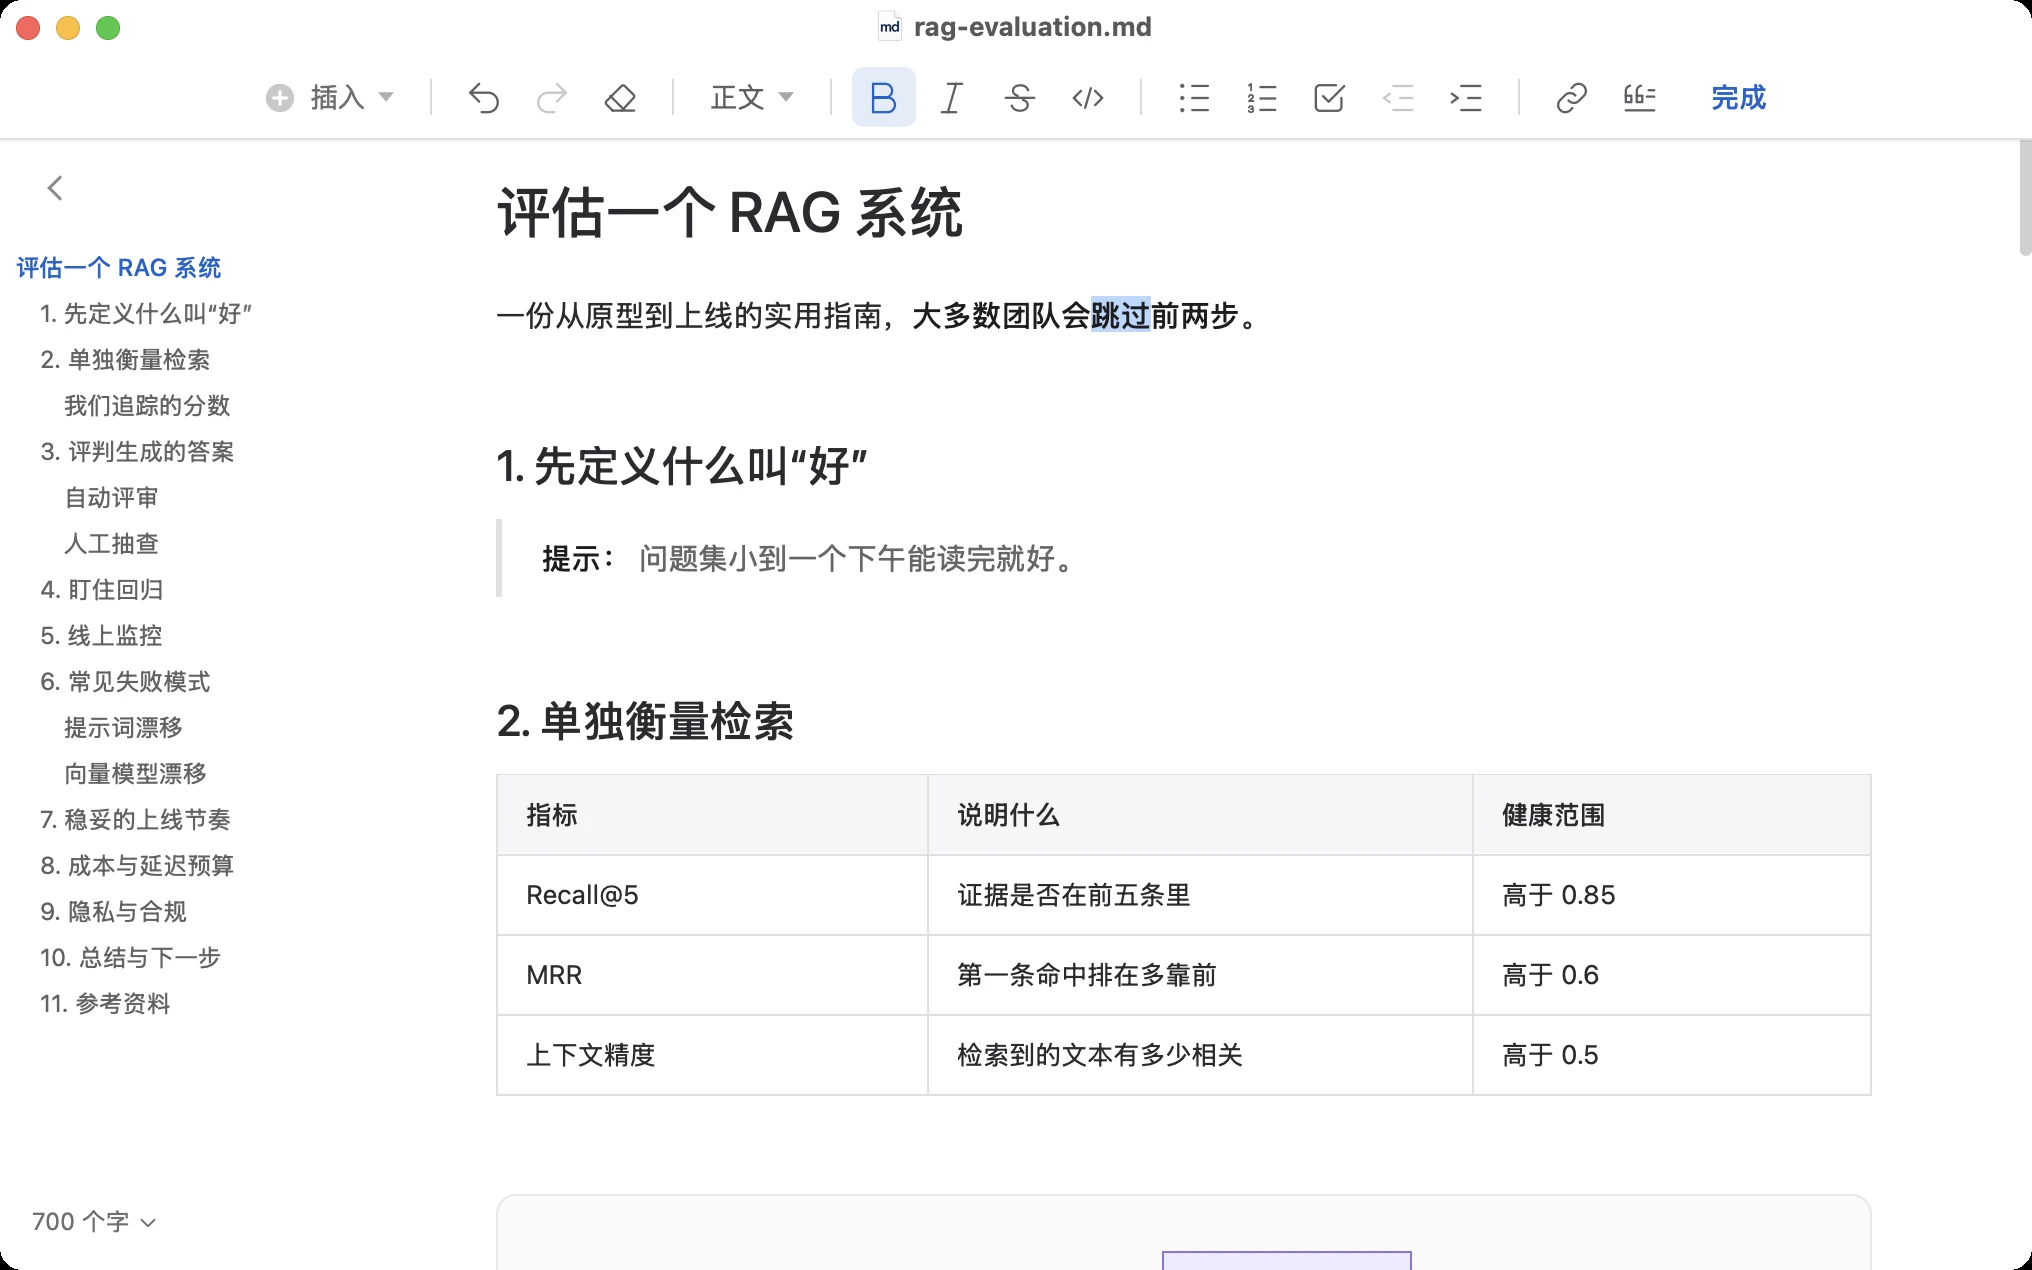
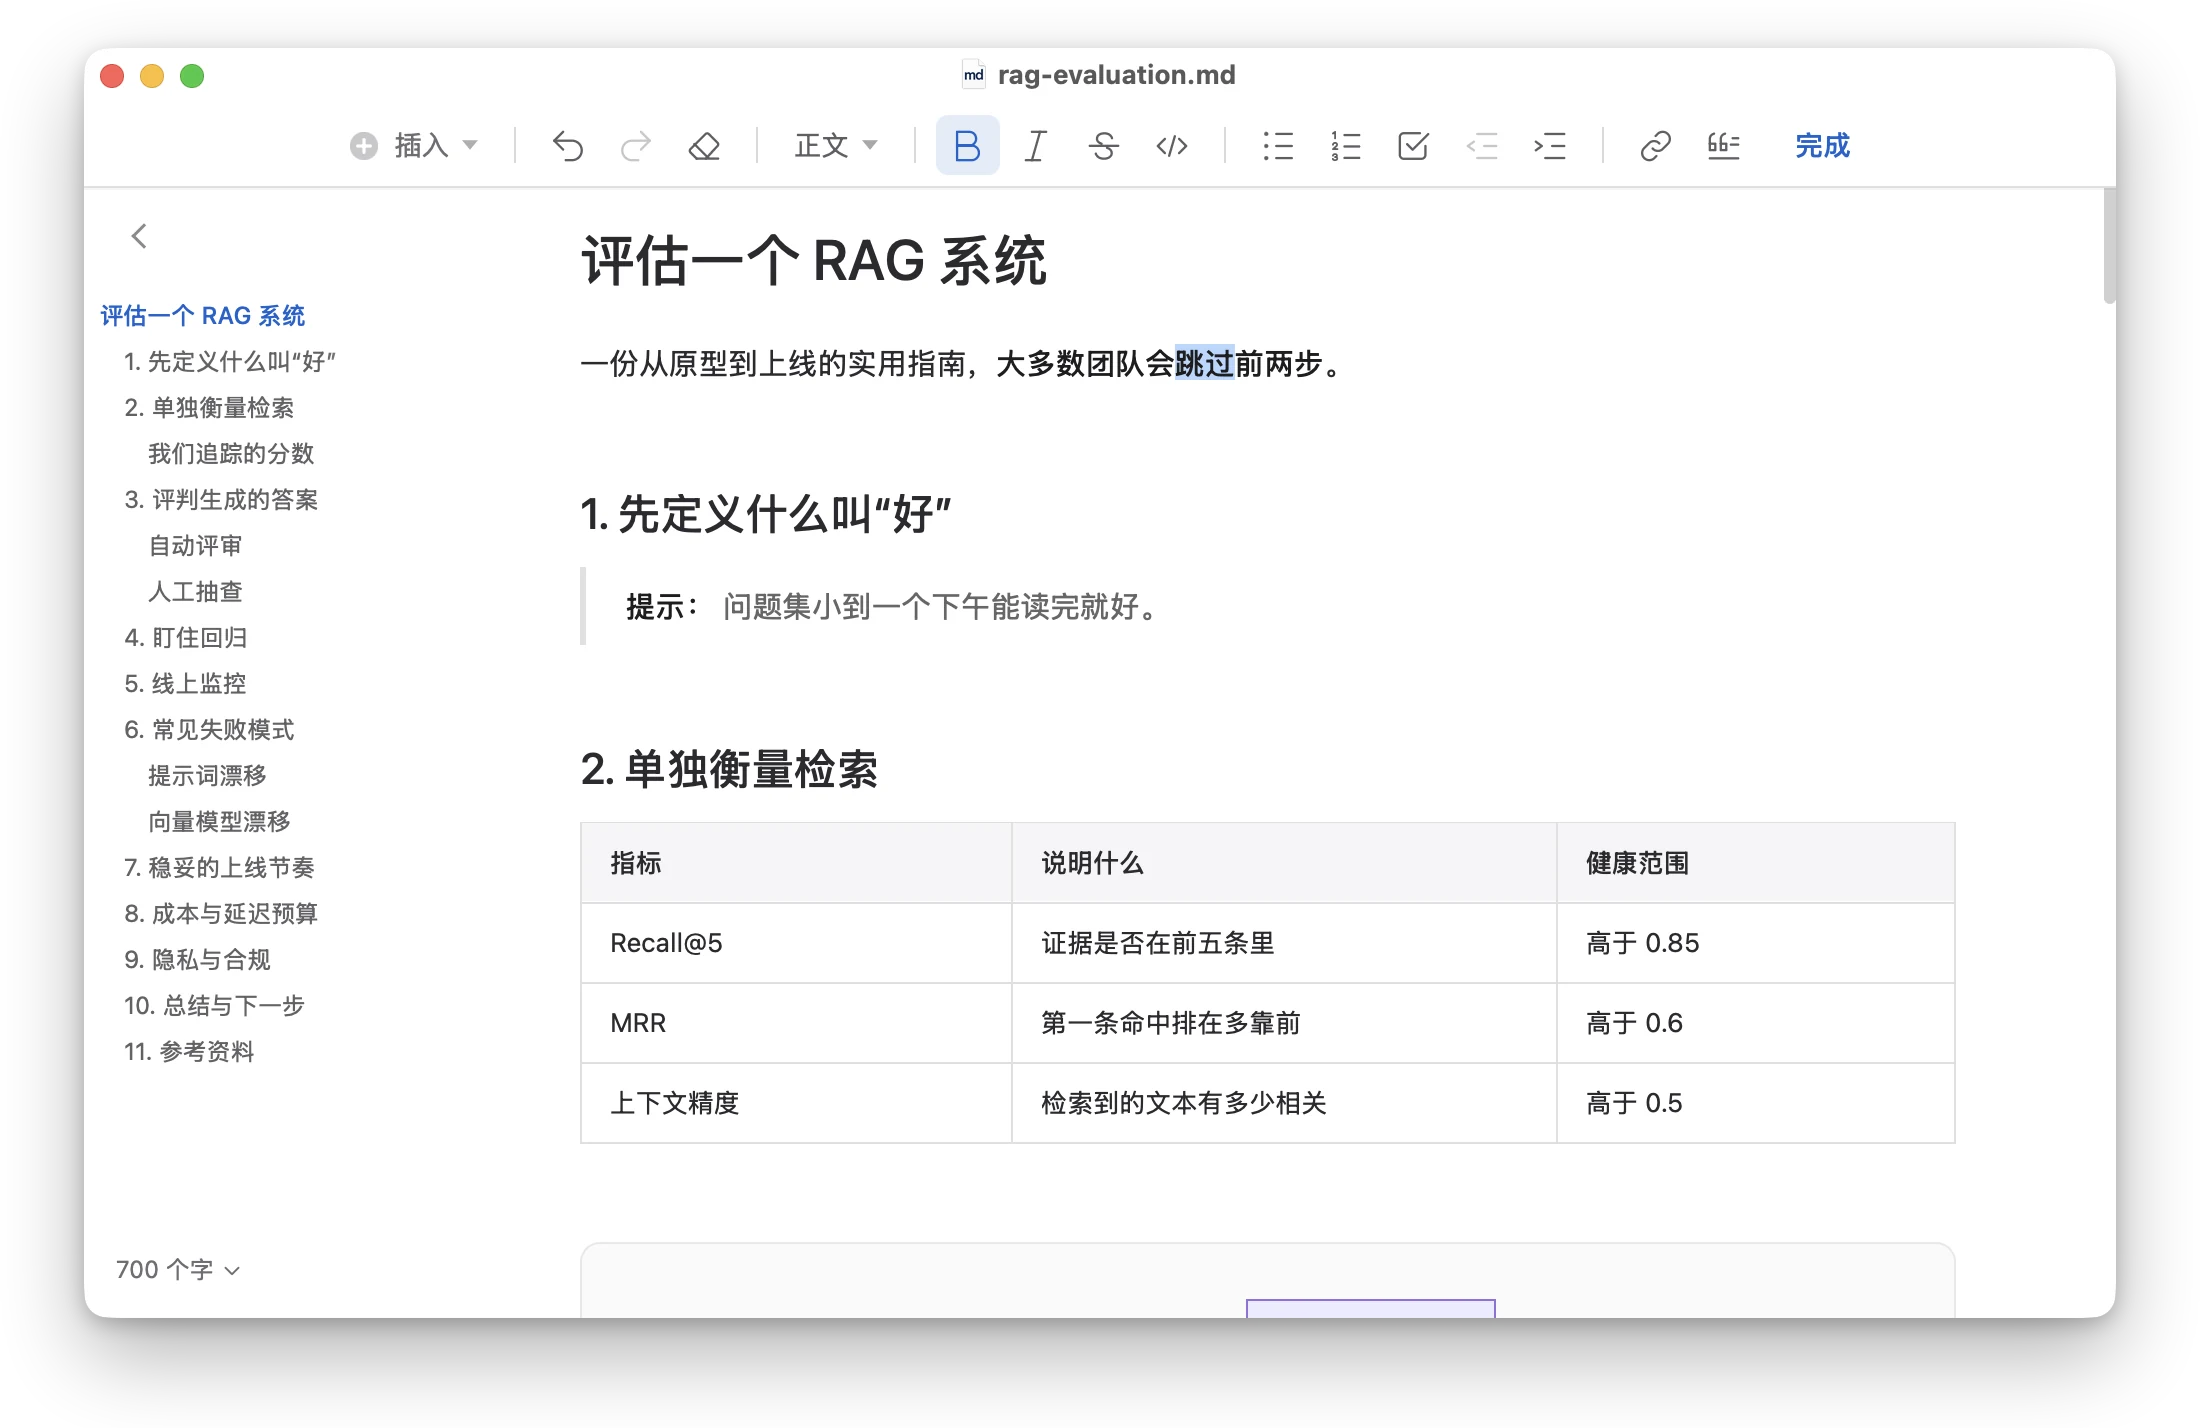
Soft window shadows on README shots; refresh the editor-vs-mdPreview figure (README and website) with the new sample
- README screenshots keep the window's transparent rounded corners and gain a soft drop shadow (no black corners).
- Website compare figure: mdPreview pane now shows the new long-outline document with a flowchart peeking in; the editor mock's source matches.
- readme-comparison images regenerated from the site; new site-compare-frames spec documents how the pane frames are made.

diff --git a/tests/e2e/site-compare-frames.spec.js b/tests/e2e/site-compare-frames.spec.js
@@ -1,0 +1,241 @@
+// 官网“通用编辑器 vs mdPreview”对比图右侧的 mdPreview 窗口素材（新版示例文档：长大纲、表格、流程图只露一角）：
+//   MAKE_SITE_IMAGES=1 npx playwright test tests/e2e/site-compare-frames.spec.js --project=webkit
+//   然后 node scripts/site-images-webp.cjs（只会转换 _raw 里的 PNG）
+const {test}=require('@playwright/test');
+const path=require('path');
+const OUT=path.join(__dirname,'../../docs/images/_raw');
+const SIDE=225;
+const DOCS={
+ en:`# Evaluating a RAG System
+
+A practical guide, **from first prototype to production**.
+
+## 1. Define what “good” means
+
+> **Tip:** Keep the question set small enough to read in an afternoon.
+
+## 2. Measure retrieval separately
+
+| Metric | What it tells you | Healthy range |
+|---|---|---|
+| Recall@5 | Is the evidence in the top five? | above 0.85 |
+| MRR | How high does the first hit rank? | above 0.6 |
+| Context precision | How much retrieved text is relevant? | above 0.5 |
+
+\`\`\`mermaid
+flowchart TD
+    Q[User question] --> R[Rewrite and embed the query]
+    R --> S[Vector search]
+    S --> K[Re-rank the top 20]
+    K --> C{Enough evidence?}
+    C -- Yes --> G[Generate a cited answer]
+    C -- No --> N[Say it does not know]
+    G --> J[Judge faithfulness]
+    N --> J
+    J --> L[(Evaluation log)]
+    L --> D[Weekly review]
+    D --> Q
+\`\`\`
+
+### The score we track
+
+Faithfulness is the share of claims in an answer that the evidence supports:
+
+$$
+\\text{Faithfulness} = \\frac{\\lvert \\text{supported claims} \\rvert}{\\lvert \\text{all claims} \\rvert}
+$$
+
+## 3. Judge the generated answer
+
+Score faithfulness, completeness and tone. Use a rubric, not a vibe.
+
+### Automated judges
+
+LLM judges are cheap and consistent, but they drift. Calibrate them against twenty human-labelled examples every release.
+
+\`\`\`python
+def score(answer, evidence):
+    claims = split_claims(answer)
+    supported = [c for c in claims if entails(evidence, c)]
+    return len(supported) / max(1, len(claims))
+\`\`\`
+
+### Human review
+
+- [x] Sample thirty answers every week
+- [x] Review every thumbs-down within a day
+- [ ] Add each new failure to the regression set
+
+## 4. Watch for regressions
+
+Run the full set on every change to prompts, chunking or the embedding model. Read the diff of answers, not only the score.
+
+## 5. Monitor in production
+
+Log queries, retrieved ids and user feedback. Review a random sample weekly.
+
+## 6. Common failure modes
+
+- Chunks that split a table from its caption
+- Stale documents outranking fresh ones
+- Answers that sound confident when retrieval returned nothing
+
+### Prompt drift
+
+Prompts that quietly grew to contain contradictory rules.
+
+### Embedding drift
+
+A new embedding model changes every neighbour list; re-index before you compare.
+
+## 7. A sensible rollout
+
+Ship to internal users first, then ten percent of traffic, then everyone. Keep a one-click rollback.
+
+## 8. Cost and latency budget
+
+Decide the budget before tuning. A slower, better answer is only better if users wait for it.
+
+## 9. Privacy and compliance
+
+Redact personal data before logging, and set a retention period for stored queries.
+
+## 10. Summary and next steps
+
+Evaluate retrieval and generation separately, automate what is cheap, and keep humans on the hard cases.
+
+## 11. References
+
+- Es et al., *RAGAS: Automated Evaluation of Retrieval Augmented Generation*
+- Zheng et al., *Judging LLM-as-a-Judge with MT-Bench*
+`,
+ zh:`# 评估一个 RAG 系统
+
+一份从原型到上线的实用指南，**大多数团队会跳过前两步**。
+
+## 1. 先定义什么叫“好”
+
+> **提示：** 问题集小到一个下午能读完就好。
+
+## 2. 单独衡量检索
+
+| 指标 | 说明什么 | 健康范围 |
+|---|---|---|
+| Recall@5 | 证据是否在前五条里 | 高于 0.85 |
+| MRR | 第一条命中排在多靠前 | 高于 0.6 |
+| 上下文精度 | 检索到的文本有多少相关 | 高于 0.5 |
+
+\`\`\`mermaid
+flowchart TD
+    Q[用户提问] --> R[改写并向量化问题]
+    R --> S[向量检索]
+    S --> K[对前 20 条重排]
+    K --> C{证据足够吗？}
+    C -- 是 --> G[生成带引用的答案]
+    C -- 否 --> N[坦率说不知道]
+    G --> J[评判忠实度]
+    N --> J
+    J --> L[(评估日志)]
+    L --> D[每周复盘]
+    D --> Q
+\`\`\`
+
+### 我们追踪的分数
+
+忠实度是答案中有证据支持的论断所占的比例：
+
+$$
+\\text{忠实度} = \\frac{\\lvert \\text{有依据的论断} \\rvert}{\\lvert \\text{全部论断} \\rvert}
+$$
+
+## 3. 评判生成的答案
+
+给忠实度、完整度和语气打分。用评分细则，不要凭感觉。
+
+### 自动评审
+
+LLM 评审又便宜又稳定，但会漂移。每次发版都用二十条人工标注的样例校准一次。
+
+\`\`\`python
+def score(answer, evidence):
+    claims = split_claims(answer)
+    supported = [c for c in claims if entails(evidence, c)]
+    return len(supported) / max(1, len(claims))
+\`\`\`
+
+### 人工抽查
+
+- [x] 每周抽查三十条答案
+- [x] 一天内看完所有点踩的反馈
+- [ ] 把每个新的失败案例加入回归集
+
+## 4. 盯住回归
+
+提示词、切块方式或向量模型每次改动，都完整跑一遍。看答案的差异，而不只是分数。
+
+## 5. 线上监控
+
+记录查询、检索到的文档 id 和用户反馈，每周随机抽查。
+
+## 6. 常见失败模式
+
+- 把表格和它的标题切开
+- 旧文档排在新文档前面
+- 检索为空时答案依然言之凿凿
+
+### 提示词漂移
+
+提示词悄悄长出了互相矛盾的规则。
+
+### 向量模型漂移
+
+换向量模型会改变每个近邻列表，对比之前先重建索引。
+
+## 7. 稳妥的上线节奏
+
+先给内部用户，再放十分之一流量，最后全量。始终保留一键回滚。
+
+## 8. 成本与延迟预算
+
+调优之前先定预算。更慢但更好的答案，只有用户愿意等才算更好。
+
+## 9. 隐私与合规
+
+记录日志前先脱敏个人信息，并为存储的查询设定保留期限。
+
+## 10. 总结与下一步
+
+分开评估检索和生成，把便宜的环节自动化，把人留给疑难案例。
+
+## 11. 参考资料
+
+- Es 等，《RAGAS：检索增强生成的自动评估》
+- Zheng 等，《用 MT-Bench 评判 LLM 评审》
+`};
+test.skip(!process.env.MAKE_SITE_IMAGES,'docs image generator');
+for(const lang of ['en','zh']){
+  for(const scheme of ['light','dark']){
+    const suffix=(lang==='zh'?'-zh':'')+(scheme==='dark'?'-dark':'');
+    test(`compare frames ${lang} ${scheme}`,async({browser})=>{
+      test.setTimeout(90000);
+      const context=await browser.newContext({viewport:{width:900,height:652},deviceScaleFactor:2,colorScheme:scheme,locale:lang==='zh'?'zh-CN':'en-US'});
+      const page=await context.newPage();
+      await page.goto('http://127.0.0.1:29381/');
+      await page.waitForFunction(()=>typeof loadContent==='function');
+      await page.evaluate(async()=>{window.pywebview={api:{async get_export_css(){return {css:'',version:'2.0.3'}},get_output_settings(){return {}},set_dirty(){return Promise.resolve(true)},store_content(){return Promise.resolve({success:true})},startup_ready(){},get_settings(){return Promise.resolve({})},set_settings(){return Promise.resolve({success:true})}}};await ensureTurndown();});
+      const name=lang==='zh'?'检索评估报告.md':'rag-evaluation.md';
+      await page.evaluate(([n,m,z])=>loadContent('/Users/me/Documents/'+n,m,720,false,z),[name,DOCS[lang],lang==='zh']);
+      await page.waitForSelector('.mermaid-diagram svg',{timeout:20000});
+      await page.evaluate(()=>{contentFontSize=15;applyFontSize();});
+      await page.waitForTimeout(1200);
+      await page.addStyleTag({content:'.mode-indicator,.reading-end,.toc-count,.reading-hud,.reading-bar{display:none!important}::-webkit-scrollbar{display:none}'});
+      if(await page.locator('#tocSidebar.hidden').count())await page.click('#tocToggle');
+      await page.evaluate(()=>{document.querySelector('.scroll-wrap').scrollTop=0;});
+      await page.mouse.move(450,640);
+      await page.waitForTimeout(700);
+      await page.screenshot({path:path.join(OUT,'demo-cmplong'+suffix+'.png'),clip:{x:SIDE,y:0,width:900-SIDE,height:652}});
+      await page.screenshot({path:path.join(OUT,'demo-cmpside'+suffix+'.png'),clip:{x:0,y:0,width:SIDE,height:652}});
+      await context.close();
+    });
+  }
+}

diff --git a/docs/index.html b/docs/index.html
@@ -420,27 +420,27 @@ footer a { color: var(--muted); }
         <div class="cmp-window ed" role="img" aria-label="示意：标准的开发工作环境，满是标签、文件树、AI 对话、终端、问题面板和通知，并显示同一份 Markdown 源码。" data-label-zh="示意：标准的开发工作环境，满是标签、文件树、AI 对话、终端、问题面板和通知，并显示同一份 Markdown 源码。" data-label-en="Illustration: a typical development workspace full of tabs, a file tree, an AI chat, a terminal, problems and notifications, showing the same Markdown source.">
           <div class="titlebar"><div class="lights"><i></i><i></i><i></i></div><span>rag-evaluation.md — project — main</span></div>
           <div class="ed-tabs"><span class="on">rag-evaluation.md<em>●</em><i>×</i></span><span>notes.md<i>×</i></span><span>todo.md<em>M</em></span><span>eval.py<i>×</i></span><span>config.json</span><span>…</span></div>
-          <div class="ed-crumb">docs › rag-evaluation.md › # Evaluating a RAG system › ## 1. Define</div>
+          <div class="ed-crumb">docs › rag-evaluation.md › # Evaluating a RAG System › ## 1. Define</div>
           <div class="ed-main">
             <div class="ed-act"><i></i><i></i><i></i><i></i><b></b></div>
             <div class="ed-tree"><b>EXPLORER</b>▾ project<br>&nbsp;▾ docs<br>&nbsp;&nbsp;&nbsp;<span class="mod">rag-evaluation.md</span><br>&nbsp;&nbsp;&nbsp;notes.md<br>&nbsp;&nbsp;&nbsp;<span class="new">todo.md</span><br>&nbsp;▾ src<br>&nbsp;&nbsp;&nbsp;eval.py<br>&nbsp;&nbsp;&nbsp;judge.py<br>&nbsp;&nbsp;&nbsp;utils.py<br>&nbsp;▸ tests<br>&nbsp;▸ node_modules<br>&nbsp;&nbsp;config.json<br>&nbsp;&nbsp;README.md<br>&nbsp;&nbsp;.gitignore</div>
-            <div class="ed-code"><div class="ed-gutter">1<br>2<br>3<br>4<br>5<br>6<br>7<br>8<br>9<br>10<br>11<br>12<br>13<br>14<br>15<br>16<br>17<br>18<br>19<br>20<br>21<br>22<br>23</div><pre data-zh="# 评估一个检索增强系统\n\n从原型到上线的实用清单，**大多数团队会跳过前两步**，之后再付出代价。[^1]\n\n> [!TIP]\n> 数据集小到一个下午能读完。\n\n## 1. 先定义什么叫“好”\n\n- [x] 收集五十个真实问题\n- [x] 写出专家答案\n\n## 2. 单独衡量检索\n\n| 指标 | 说明什么 |\n|---|---|\n| Recall@5 | 证据是否在前五条里 |" data-en="# Evaluating a RAG system\n\nA practical checklist, **from first prototype to production**. Most teams skip the first two steps and pay for it later.[^1]\n\n> [!TIP]\n> Keep the set small enough to read in an afternoon.\n\n## 1. Define what “good” means\n\n- [x] Collect fifty real questions\n- [x] Write the expert answers\n\n## 2. Measure retrieval separately\n\n| Metric | What it tells you |\n|---|---|\n| Recall@5 | Is the evidence in the top five? |"># 评估一个检索增强系统
+            <div class="ed-code"><div class="ed-gutter">1<br>2<br>3<br>4<br>5<br>6<br>7<br>8<br>9<br>10<br>11<br>12<br>13<br>14<br>15<br>16<br>17<br>18<br>19<br>20<br>21<br>22<br>23</div><pre data-zh="# 评估一个 RAG 系统\n\n一份从原型到上线的实用指南，**大多数团队会跳过前两步**。\n\n## 1. 先定义什么叫“好”\n\n> **提示：** 问题集小到一个下午能读完就好。\n\n## 2. 单独衡量检索\n\n| 指标 | 说明什么 |\n|---|---|\n| Recall@5 | 证据是否在前五条里 |\n\n```mermaid\nflowchart TD\n    Q[用户提问] --> R[改写并向量化]" data-en="# Evaluating a RAG System\n\nA practical guide, **from first prototype to production**.\n\n## 1. Define what “good” means\n\n> **Tip:** Keep the question set small enough to read in an afternoon.\n\n## 2. Measure retrieval separately\n\n| Metric | What it tells you |\n|---|---|\n| Recall@5 | Is the evidence in the top five? |\n\n```mermaid\nflowchart TD\n    Q[User question] --> R[Rewrite and embed]"># 评估一个 RAG 系统
 
-从原型到上线的实用清单，**大多数团队会跳过前两步**，之后再付出代价。[^1]
-
-> [!TIP]
-> 数据集小到一个下午能读完。
+一份从原型到上线的实用指南，**大多数团队会跳过前两步**。
 
 ## 1. 先定义什么叫“好”
 
-- [x] 收集五十个真实问题
-- [x] 写出专家答案
+> **提示：** 问题集小到一个下午能读完就好。
 
 ## 2. 单独衡量检索
 
 | 指标 | 说明什么 |
 |---|---|
-| Recall@5 | 证据是否在前五条里 |</pre><div class="ed-mini"></div></div>
+| Recall@5 | 证据是否在前五条里 |
+
+```mermaid
+flowchart TD
+    Q[用户提问] --> R[改写并向量化]</pre><div class="ed-mini"></div></div>
             <div class="ed-chat">
               <div class="ed-chat-head">AI ASSISTANT<span>gpt ▾ · New chat ＋</span></div>
               <div class="ed-msgs">
@@ -465,7 +465,7 @@ footer a { color: var(--muted); }
         <p class="compare-tag"><b>mdPreview</b></p>
         <div class="cmp-window" role="img" aria-label="同一份文件在 mdPreview 里：只有一个干净的文档窗口。" data-label-zh="同一份文件在 mdPreview 里：只有一个干净的文档窗口。" data-label-en="The same file in mdPreview: just one calm document window.">
           <div class="titlebar"><div class="lights"><i></i><i></i><i></i></div><img src="images/doc-icon.webp" alt="" width="14" height="14"><span data-zh="检索评估报告.md" data-en="rag-evaluation.md">检索评估报告.md</span></div>
-          <div class="cmp-body"><div class="comp-side" id="strip-side"></div><div class="comp-long"><img data-frame="long" alt=""></div></div>
+          <div class="cmp-body"><div class="comp-side"><img class="on" data-frame="cmpside" alt=""></div><div class="comp-long"><img data-frame="cmplong" alt=""></div></div>
         </div>
       </figure>
     </div>
